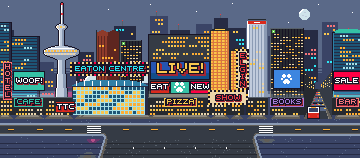
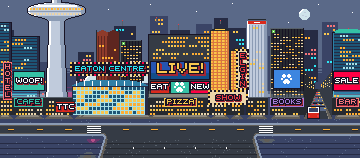
Bring the CN Tower huge and close on Yonge Street: its main pod, 57 wide with gold, amber and cream window rings in 2px clusters, near the band's top, the SkyPod and antenna cut off above it and the shaft tapering down to the street

Changed region(s): [[0.0611, 0.0, 0.2444, 0.6329]]

diff --git a/art/tools/backdrops.py b/art/tools/backdrops.py
@@ -1792,52 +1792,43 @@ def beaches():
     return cv
 
 
-def cn_tower(cv, cx, base, top, sky_pod, pod):
-    """The CN Tower at night, the tallest thing on the skyline, centred on column cx, in an ink outline, lgrey
-    lit white on its left and grey in shade on its right: the antenna, 2 columns wide, from its tip on row top,
-    with a red light at its tip and another halfway down; the SkyPod from row sky_pod with a ring of lit
-    windows; a 5-column shaft on to the main pod from row pod, a saucer 35 wide under a white cap with two
-    rings of lit 2x2 windows, gold over amber and cream, its underside in shade; then the shaft tapering out
-    to 13 columns down to row base."""
-    rows = {}
-    for y in range(top, sky_pod):
-        rows[y] = (0, 1)
-    for k, half in enumerate((2, 4, 5, 5, 4, 3)):
-        rows[sky_pod + k] = (half, half)
-    for y in range(sky_pod + 6, pod):
-        rows[y] = (2, 2)
-    saucer = (6, 10, 13, 15, 17, 17, 17, 17, 16, 14, 11, 8, 6, 4)
-    for k, half in enumerate(saucer):
-        rows[pod + k] = (half, half)
-    low = pod + len(saucer)
+# The CN Tower's main pod, close up: each row's half-width from its top, a cap over a wide skirt of window
+# rings, then its underside narrowing into the shaft.
+CN_POD = (12, 18, 22, 25, 27, 28, 28, 28, 28, 28, 27, 25, 22, 18, 14, 11, 9, 8)
+
+
+def cn_tower(cv, cx, base, pod):
+    """The CN Tower at night, huge and close, the largest structure in the city, centred on column cx, in
+    an ink outline, lgrey lit white on its left and grey in shade on its right. Its main pod (CN_POD), 57
+    wide, has its top on row pod, near the band's top, its upper shaft running off the band's top above
+    it; a white cap, a ring of lit 2x2 windows gold and amber at its widest, a ring of cream ones under a
+    grey band, its underside in shade; then the shaft tapers out from 15 columns to 23 down to row base."""
+    rows = {y: 4 for y in range(0, pod)}
+    for k, half in enumerate(CN_POD):
+        rows[pod + k] = half
+    low = pod + len(CN_POD)
     for y in range(low, base):
-        half = 3 + (y - low) * 4 // max(1, base - low)
-        rows[y] = (half, half)
-    inside = {(x, y) for y, (left, right) in rows.items() for x in range(cx - left, cx + right + 1)}
+        rows[y] = 7 + (y - low) * 4 // max(1, base - low)
+    inside = {(x, y) for y, half in rows.items() for x in range(cx - half, cx + half + 1)}
     for x, y in inside:
         for dx, dy in ((1, 0), (-1, 0), (0, 1), (0, -1)):
-            if (x + dx, y + dy) not in inside:
+            if (x + dx, y + dy) not in inside and y + dy >= 0:
                 cv.fill(x + dx, y + dy, 1, 1, "ink")
-    for y, (left, right) in rows.items():
-        cv.fill(cx - left, y, left + right + 1, 1, "lgrey")
-        cv.fill(cx - left, y, 1, 1, "white")
-        shade = min(3, right) if right > 1 else 1
-        cv.fill(cx + right - shade + 1, y, shade, 1, "grey")
-    # the antenna's lights, the SkyPod's window ring
-    cv.fill(cx, top, 2, 2, "red")
-    cv.fill(cx, top + (sky_pod - top) // 2, 2, 2, "red")
-    for k, x in enumerate(range(cx - 4, cx + 5, 3)):
-        cv.fill(x, sky_pod + 2, 2, 2, ("cream", "gold")[k % 2])
-    # the main pod: a white cap, a ring of gold and amber windows at its widest, a ring of cream below it,
-    # the underside in shade
-    cv.fill(cx - 12, pod + 2, 25, 1, "white")
-    for k, x in enumerate(range(cx - 16, cx + 16, 3)):
-        cv.fill(x, pod + 4, 2, 2, ("gold", "amber")[k % 2])
-    cv.fill(cx - 17, pod + 6, 35, 1, "grey")
-    for x in range(cx - 15, cx + 15, 3):
-        cv.fill(x, pod + 7, 2, 2, "cream")
-    for k, half in enumerate(saucer[9:]):
-        cv.fill(cx - half, pod + 9 + k, 2 * half + 1, 1, "grey")
+    for y, half in rows.items():
+        cv.fill(cx - half, y, 2 * half + 1, 1, "lgrey")
+        cv.fill(cx - half, y, 2, 1, "white")
+        shade = min(4, half)
+        cv.fill(cx + half - shade + 1, y, shade, 1, "grey")
+    # the pod: a white cap, a ring of gold and amber windows at its widest, a grey band, a ring of cream
+    # windows, the underside in shade
+    cv.fill(cx - 20, pod + 2, 41, 2, "white")
+    for k, x in enumerate(range(cx - 26, cx + 26, 3)):
+        cv.fill(x, pod + 5, 2, 2, ("gold", "amber")[k % 2])
+    cv.fill(cx - 28, pod + 8, 57, 1, "grey")
+    for x in range(cx - 25, cx + 25, 3):
+        cv.fill(x, pod + 10, 2, 2, "cream")
+    for k, half in enumerate(CN_POD[13:]):
+        cv.fill(cx - half, pod + 13 + k, 2 * half + 1, 1, "grey")
 
 
 def mast(cv, cx, top, h):
@@ -2244,16 +2235,16 @@ def yonge():
     for x, y in ((8, 6), (62, 2), (108, 9), (150, 4), (196, 11), (232, 3), (288, 22), (318, 4), (352, 12)):
         cv.fill(x, y, 1, 1, "white")
     full_moon(cv, 304, 14, 5)
-    # downtown seen from far off, its towers stepping up toward the top third, the CN Tower over them all
-    # at its real proportions: the antenna's red light on row 3, the SkyPod a fifth of the way down, the
-    # main pod two fifths, and the shaft tapering down to the street. The message strip covers the band's
-    # top rows while a message shows, so the screens and signs stay below row 57. Far back, dark towers in
-    # navy and dslate with runs of windows lit, those either side of the tower's pod kept low
+    # downtown seen from far off, its towers stepping up toward the top third, the CN Tower huge and close
+    # over them all: its main pod near the band's top, the antenna and SkyPod cut off above, the shaft
+    # tapering down to the street. The message strip covers the band's top rows while a message shows, so
+    # the screens and signs stay below row 57. Far back, dark towers in navy and dslate with runs of windows
+    # lit, those either side of the tower's shaft kept low
     skyline(cv, ((-2, 16, 30, "navy"), (40, 14, 62, "dslate"), (78, 16, 52, "navy"), (114, 22, 26, "navy"),
                  (150, 18, 16, "dslate"), (170, 20, 30, "navy"), (196, 16, 24, "dslate"), (214, 14, 18, "navy"),
                  (228, 18, 28, "navy"),
                  (268, 16, 36, "dslate"), (300, 18, 30, "navy"), (322, 16, 22, "dslate"), (342, 20, 34, "navy")))
-    for cx, top, h in ((122, 26, 6), (156, 16, 5), (178, 30, 6), (220, 18, 4), (348, 34, 6)):
+    for cx, top, h in ((122, 26, 6), (156, 22, 5), (178, 30, 6), (220, 24, 4), (348, 34, 6)):
         mast(cv, cx, top - h, h)
     # the SkyDome off to the tower's right, its foot behind the Eaton Centre; lit towers behind it; then the
     # CN Tower, its shaft clear down to the street
@@ -2262,7 +2253,7 @@ def yonge():
     scotia(cv, 96, 24, 30)
     dominion(cv, 120, 22, 40, 5)
     glass_tower(cv, -4, 16, 22, 4)
-    cn_tower(cv, 61, BASE, 3, 24, 46)
+    cn_tower(cv, 56, BASE, 3)
     # the nearer towers: dark glass on the left and up to the SkyDome's lower half; then, down to
     # the street, the Yonge-Dundas screens, the Royal Bank Plaza's gold pair, First Canadian Place, a TD
     # Centre tower and glass under a turquoise crown, the street's glow on their feet and most with neon

diff --git a/art/style-guide.md b/art/style-guide.md
@@ -325,7 +325,7 @@ Backdrops are 360×158 on screen rows 48 to 205 (`art/tools/backdrops.py`); band
 
 - Above the far side's front row the scenery goes back in depth, not taller. The debuff bars and the message strip lie over the band's top rows, so the sky above row 45 is one flat colour with no clouds, stars or scenery. Yonge Street is the exception: its skyline, moon and stars rise above row 45, under the bars' and the strip's opaque plates.
 - Darkness varies: The Beaches bright and open, the Distillery District at golden hour, High Park under a clear blue sky, Cabbagetown at dusk, Yonge Street an evening downtown and Kensington Market darkest, a Pedestrian Sunday at twilight.
-- The CN Tower is by far the tallest thing on Yonge Street's skyline, at its real proportions: the antenna's red light on row 3, the SkyPod a fifth of the way down, the wide main pod with its lit window rings two fifths of the way, and the shaft tapering down to the street in clear view. The other towers step up toward the top third, and those either side of its pod stay low. The message strip covers band rows 6 to 57 while a message shows, so the screens and signs sit below row 57.
+- The CN Tower is huge and close on Yonge Street's skyline, the largest structure in the city: its main pod, 57 wide with its lit window rings in 2px clusters, has its top on row 3, its upper shaft, SkyPod and antenna cut off above the band, and its shaft tapers down to the street in clear view. The other towers step up toward the top third below the pod, and those either side of its shaft stay low. The message strip covers band rows 6 to 57 while a message shows, so the screens and signs sit below row 57.
 - Yonge Street's night is lit in big, clean shapes, never speckle: windows in 2×2 blocks lit in runs along each floor, the 2× LIVE! screen and its ad screens, a WOOF! screen on the glass tower at the left, 2px marquee bulbs (the EATON CENTRE sign, the ELGIN blade, the SHOW marquee), the street's glow a ramp step up the towers' feet, and each lit podium's light on the far sidewalk. It is seen from far off: building masses, lit window runs, screens and signs, with no doors, shopfronts, awnings or people; the Eaton Centre is one huge glass mall under its galleria vault, with no entrance.
 - Houses on the far side are slim, about as tall as they are wide, under a gable that rises about a row for each column it narrows, past 2px eaves. Light comes from the top left: the roof's left edge a ramp step lighter, the wall's right 3 columns a step darker. Trees, hedges and side yards fill the gaps, and the end houses run off the band's edges so the street carries on. Houses further back are smaller and show between the near roofs.
 - Kensington Market's laneway murals at the band's edges are painted a ramp step darker than `MURAL`, so they sit behind the shopfronts.
